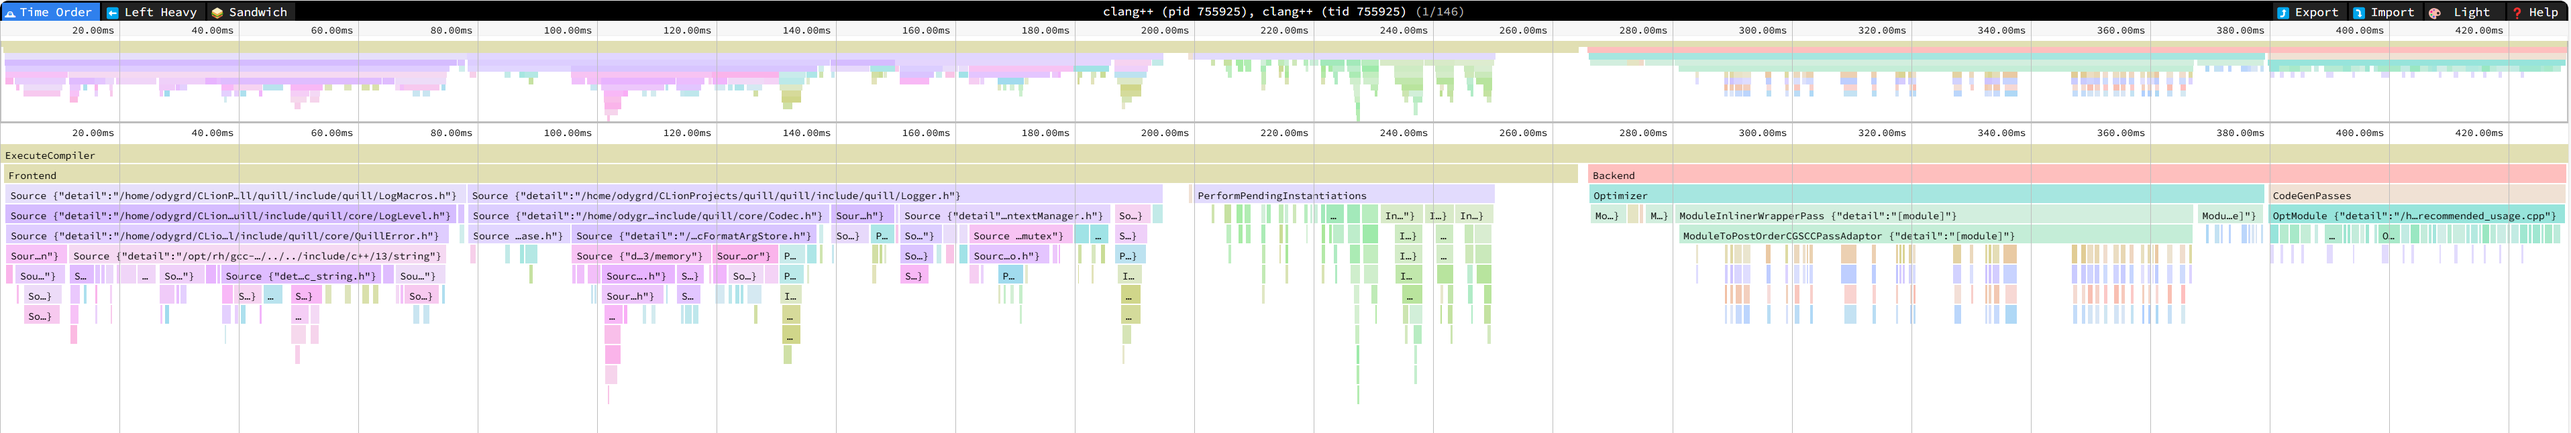
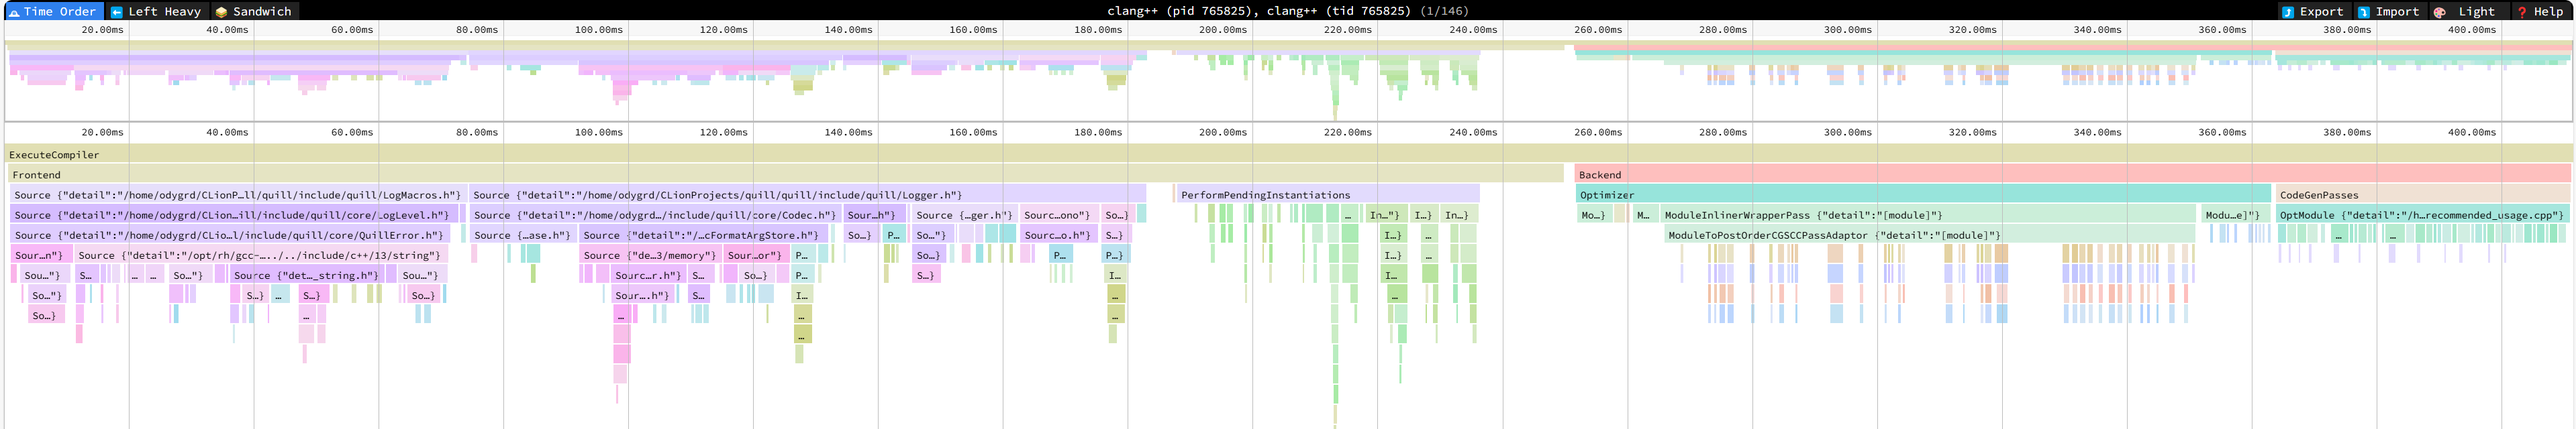
replace std::mutex with a spinlock

Changed region(s): [[0.0, 0.3438, 1.0, 0.9062], [0.0, 0.0, 1.0, 0.3438]]

diff --git a/quill/include/quill/core/LoggerManager.h b/quill/include/quill/core/LoggerManager.h
@@ -8,13 +8,13 @@
 #include "quill/core/Attributes.h"
 #include "quill/core/Common.h"
 #include "quill/core/LoggerBase.h"
+#include "quill/core/Spinlock.h"
 
 #include <algorithm>
 #include <atomic>
 #include <cassert>
 #include <initializer_list>
 #include <memory>
-#include <mutex>
 #include <string>
 #include <vector>
 
@@ -42,7 +42,7 @@ public:
   /***/
   QUILL_NODISCARD LoggerBase* get_logger(std::string const& logger_name) const
   {
-    std::lock_guard<std::recursive_mutex> const lock{_mutex};
+    LockGuard const lock{_spinlock};
     LoggerBase* logger = _find_logger(logger_name);
     return logger && logger->is_valid_logger() ? logger : nullptr;
   }
@@ -50,7 +50,7 @@ public:
   /***/
   QUILL_NODISCARD std::vector<LoggerBase*> get_all_loggers() const
   {
-    std::lock_guard<std::recursive_mutex> const lock{_mutex};
+    LockGuard const lock{_spinlock};
 
     std::vector<LoggerBase*> loggers;
 
@@ -70,7 +70,7 @@ public:
   QUILL_NODISCARD LoggerBase* get_valid_logger() const
   {
     // Retrieves any valid logger without the need for constructing a vector
-    std::lock_guard<std::recursive_mutex> const lock{_mutex};
+    LockGuard const lock{_spinlock};
 
     for (auto const& elem : _loggers)
     {
@@ -87,7 +87,7 @@ public:
   /***/
   QUILL_NODISCARD size_t get_number_of_loggers() const noexcept
   {
-    std::lock_guard<std::recursive_mutex> const lock{_mutex};
+    LockGuard const lock{_spinlock};
     return _loggers.size();
   }
 
@@ -97,7 +97,7 @@ public:
   template <typename TCallback>
   void for_each_logger(TCallback cb) const
   {
-    std::lock_guard<std::recursive_mutex> const lock{_mutex};
+    LockGuard const lock{_spinlock};
 
     for (auto const& elem : _loggers)
     {
@@ -118,7 +118,7 @@ public:
                                    std::string const& time_pattern, Timezone timestamp_timezone,
                                    ClockSourceType clock_source, UserClockSource* user_clock)
   {
-    std::lock_guard<std::recursive_mutex> const lock{_mutex};
+    LockGuard const lock{_spinlock};
 
     LoggerBase* logger_ptr = _find_logger(logger_name);
 
@@ -159,7 +159,7 @@ public:
     {
       _has_invalidated_loggers.store(false, std::memory_order_release);
 
-      std::lock_guard<std::recursive_mutex> const lock{_mutex};
+      LockGuard const lock{_spinlock};
       for (auto it = _loggers.begin(); it != _loggers.end();)
       {
         if (!it->get()->is_valid_logger())
@@ -221,7 +221,7 @@ private:
 
 private:
   std::vector<std::unique_ptr<LoggerBase>> _loggers;
-  mutable std::recursive_mutex _mutex;
+  mutable Spinlock _spinlock;
   std::atomic<bool> _has_invalidated_loggers{false};
 };
 } // namespace detail

diff --git a/quill/include/quill/core/ThreadContextManager.h b/quill/include/quill/core/ThreadContextManager.h
@@ -8,6 +8,7 @@
 #include "quill/core/Attributes.h"
 #include "quill/core/BoundedSPSCQueue.h"
 #include "quill/core/Common.h"
+#include "quill/core/Spinlock.h"
 #include "quill/core/ThreadUtilities.h"
 #include "quill/core/UnboundedSPSCQueue.h"
 
@@ -16,7 +17,6 @@
 #include <cstdint>
 #include <cstdlib>
 #include <memory>
-#include <mutex>
 #include <new>
 #include <string>
 #include <string_view>
@@ -224,7 +224,7 @@ public:
   template <typename TCallback>
   void for_each_thread_context(TCallback cb)
   {
-    std::lock_guard<std::mutex> const lock{_mutex};
+    LockGuard const lock{_spinlock};
 
     for (auto const& elem : _thread_contexts)
     {
@@ -235,9 +235,9 @@ public:
   /***/
   void register_thread_context(std::shared_ptr<ThreadContext> const& thread_context)
   {
-    _mutex.lock();
+    _spinlock.lock();
     _thread_contexts.push_back(thread_context);
-    _mutex.unlock();
+    _spinlock.unlock();
     _new_thread_context_flag.store(true, std::memory_order_release);
   }
 
@@ -274,7 +274,7 @@ public:
   /***/
   void remove_shared_invalidated_thread_context(ThreadContext const* thread_context)
   {
-    std::lock_guard<std::mutex> const lock{_mutex};
+    LockGuard const lock{_spinlock};
 
     // We could use std::find_if, but since this header is included in Logger.h, which is essential
     // for logging purposes, we aim to minimize the number of includes in that path.
@@ -321,11 +321,10 @@ private:
   ~ThreadContextManager() = default;
 
 private:
-  std::mutex _mutex; /**< Protect access when register contexts or removing contexts */
   std::vector<std::shared_ptr<ThreadContext>> _thread_contexts; /**< The registered contexts */
-
-  alignas(CACHE_LINE_ALIGNED) std::atomic<bool> _new_thread_context_flag{false};
-  alignas(CACHE_LINE_ALIGNED) std::atomic<uint8_t> _invalid_thread_context_count{0};
+  Spinlock _spinlock; /**< Protect access when register contexts or removing contexts */
+  std::atomic<bool> _new_thread_context_flag{false};
+  std::atomic<uint8_t> _invalid_thread_context_count{0};
 };
 
 class ScopedThreadContext

diff --git a/quill/include/quill/core/SinkManager.h b/quill/include/quill/core/SinkManager.h
@@ -7,11 +7,11 @@
 
 #include "quill/core/Attributes.h"
 #include "quill/core/QuillError.h"
+#include "quill/core/Spinlock.h"
 
 #include <algorithm>
 #include <cstdint>
 #include <memory>
-#include <mutex>
 #include <string>
 #include <type_traits>
 #include <vector>
@@ -52,7 +52,7 @@ public:
   QUILL_NODISCARD std::shared_ptr<Sink> get_sink(std::string const& sink_name) const
   {
     // The sinks are used by the backend thread, so after their creation we want to avoid mutating their member variables.
-    std::lock_guard<std::mutex> const lock{_mutex};
+    LockGuard const lock{_spinlock};
 
     std::shared_ptr<Sink> sink = _find_sink(sink_name);
 
@@ -69,7 +69,7 @@ public:
   std::shared_ptr<Sink> create_or_get_sink(std::string const& sink_name, Args&&... args)
   {
     // The sinks are used by the backend thread, so after their creation we want to avoid mutating their member variables.
-    std::lock_guard<std::mutex> const lock{_mutex};
+    LockGuard const lock{_spinlock};
 
     std::shared_ptr<Sink> sink = _find_sink(sink_name);
 
@@ -95,7 +95,8 @@ public:
   {
     // this needs to take a lock each time. The backend logging thread should be carefully call
     // it only when needed
-    std::lock_guard<std::mutex> const lock{_mutex};
+    LockGuard const lock{_spinlock};
+
     uint32_t cnt{0};
     for (auto it = _sinks.begin(); it != _sinks.end();)
     {
@@ -146,7 +147,7 @@ private:
 
 private:
   std::vector<SinkInfo> _sinks;
-  mutable std::mutex _mutex;
+  mutable Spinlock _spinlock;
 };
 } // namespace detail
 } // namespace quill

diff --git a/quill/include/quill/sinks/Sink.h b/quill/include/quill/sinks/Sink.h
@@ -8,13 +8,13 @@
 #include "quill/core/Attributes.h"
 #include "quill/core/LogLevel.h"
 #include "quill/core/QuillError.h"
+#include "quill/core/Spinlock.h"
 #include "quill/filters/Filter.h"
 
 #include <algorithm>
 #include <atomic>
 #include <cstdint>
 #include <memory>
-#include <mutex>
 #include <string>
 #include <string_view>
 #include <utility>
@@ -109,7 +109,7 @@ public:
   void add_filter(std::unique_ptr<Filter> filter)
   {
     // Lock and add this filter to our global collection
-    std::lock_guard<std::recursive_mutex> const lock{_global_filters_lock};
+    detail::LockGuard const lock{_global_filters_lock};
 
     // Check if the same filter already exists
     auto const search_filter_it = std::find_if(
@@ -156,7 +156,8 @@ public:
       // if there is a new filter we have to update
       _local_filters.clear();
 
-      std::lock_guard<std::recursive_mutex> const lock{_global_filters_lock};
+      detail::LockGuard const lock{_global_filters_lock};
+
       for (auto const& filter : _global_filters)
       {
         _local_filters.push_back(filter.get());
@@ -188,12 +189,11 @@ private:
 
   /** Global filter for this sink **/
   std::vector<std::unique_ptr<Filter>> _global_filters;
-  std::recursive_mutex _global_filters_lock;
-
-  std::atomic<LogLevel> _log_level{LogLevel::TraceL3};
-
+  detail::Spinlock _global_filters_lock;
   /** Indicator that a new filter was added **/
   std::atomic<bool> _new_filter{false};
+
+  std::atomic<LogLevel> _log_level{LogLevel::TraceL3};
 };
 
 } // namespace quill

diff --git a/quill/include/quill/core/Spinlock.h b/quill/include/quill/core/Spinlock.h
@@ -1,0 +1,70 @@
+/**
+ * Copyright(c) 2020-present, Odysseas Georgoudis & quill contributors.
+ * Distributed under the MIT License (http://opensource.org/licenses/MIT)
+ */
+
+#pragma once
+
+#include "quill/core/Attributes.h"
+#include <atomic>
+#include <cstdint>
+
+namespace quill::detail
+{
+/***/
+class Spinlock
+{
+public:
+  Spinlock() = default;
+
+  /**
+   * Deleted
+   */
+  Spinlock(Spinlock const&) = delete;
+  Spinlock& operator=(Spinlock const&) = delete;
+
+  /***/
+  QUILL_ATTRIBUTE_HOT void lock() noexcept
+  {
+    do
+    {
+      while (_flag.load(std::memory_order_relaxed) == State::Locked)
+      {
+        // keep trying
+      }
+    } while (_flag.exchange(State::Locked, std::memory_order_acquire) == State::Locked);
+  }
+
+  /***/
+  QUILL_ATTRIBUTE_HOT void unlock() noexcept
+  {
+    _flag.store(State::Free, std::memory_order_release);
+  }
+
+private:
+  enum class State : uint8_t
+  {
+    Free = 0,
+    Locked = 1
+  };
+
+  std::atomic<State> _flag{State::Free};
+};
+
+/***/
+class LockGuard
+{
+public:
+  explicit LockGuard(Spinlock& s) : _spinlock(s) { _spinlock.lock(); }
+  ~LockGuard() { _spinlock.unlock(); }
+
+  /**
+   * Deleted
+   */
+  LockGuard(LockGuard const&) = delete;
+  LockGuard& operator=(LockGuard const&) = delete;
+
+private:
+  Spinlock& _spinlock;
+};
+} // namespace quill::detail

diff --git a/quill/include/quill/core/MathUtils.h b/quill/include/quill/core/MathUtils.h
@@ -25,6 +25,16 @@ QUILL_NODISCARD constexpr bool is_power_of_two(uint64_t number) noexcept
 }
 
 /**
+ * Helper function to calculate the maximum power of two for type T
+ * @return maximum power of two for type T
+ */
+template <typename T>
+QUILL_NODISCARD constexpr T max_power_of_two() noexcept
+{
+  return (std::numeric_limits<T>::max() >> 1) + 1;
+}
+
+/**
  * Round up to the next power of 2
  * @param n input
  * @return the next power of 2
@@ -32,7 +42,7 @@ QUILL_NODISCARD constexpr bool is_power_of_two(uint64_t number) noexcept
 template <typename T>
 QUILL_NODISCARD T next_power_of_two(T n)
 {
-  constexpr T max_power_of_2 = (std::numeric_limits<T>::max() >> 1) + 1;
+  constexpr T max_power_of_2 = max_power_of_two<T>();
 
   if (n >= max_power_of_2)
   {

diff --git a/quill/include/quill/core/UnboundedSPSCQueue.h b/quill/include/quill/core/UnboundedSPSCQueue.h
@@ -9,12 +9,12 @@
 #include "quill/core/BoundedSPSCQueue.h"
 #include "quill/core/Common.h"
 #include "quill/core/QuillError.h"
+#include "quill/core/MathUtils.h"
 
 #include <atomic>
 #include <cassert>
 #include <cstddef>
 #include <cstdint>
-#include <limits>
 #include <string>
 
 namespace quill::detail
@@ -121,8 +121,7 @@ public:
     }
 
     // bounded queue max power of 2 capacity since uint32_t type is used to hold the value 2147483648 bytes
-    uint64_t constexpr max_bounded_queue_capacity =
-      (std::numeric_limits<BoundedSPSCQueue::integer_type>::max() >> 1) + 1;
+    uint64_t constexpr max_bounded_queue_capacity = max_power_of_two<BoundedSPSCQueue::integer_type>();
 
     if (QUILL_UNLIKELY(capacity > max_bounded_queue_capacity))
     {

diff --git a/CHANGELOG.md b/CHANGELOG.md
@@ -84,6 +84,10 @@
   Previously, this would result in an error being displayed but no logs being written. This issue is now resolved: the
   error is reported once, and logs will be written to the console without colors.
 - Improved performance of `StringFromTime` and `TimestampFormatter` used by the backend worker thread.
+- Replaced `std::mutex` with a spinlock, resulting in minor performance improvement for backend worker. This change
+  also avoids including `<mutex>` in the frontend, particularly when following the
+  [recommended_usage](https://github.com/odygrd/quill/blob/master/examples/recommended_usage/recommended_usage.cpp)
+  example
 - Update bundled `libfmt` to `11.0.2`
 
 ## v5.0.0
